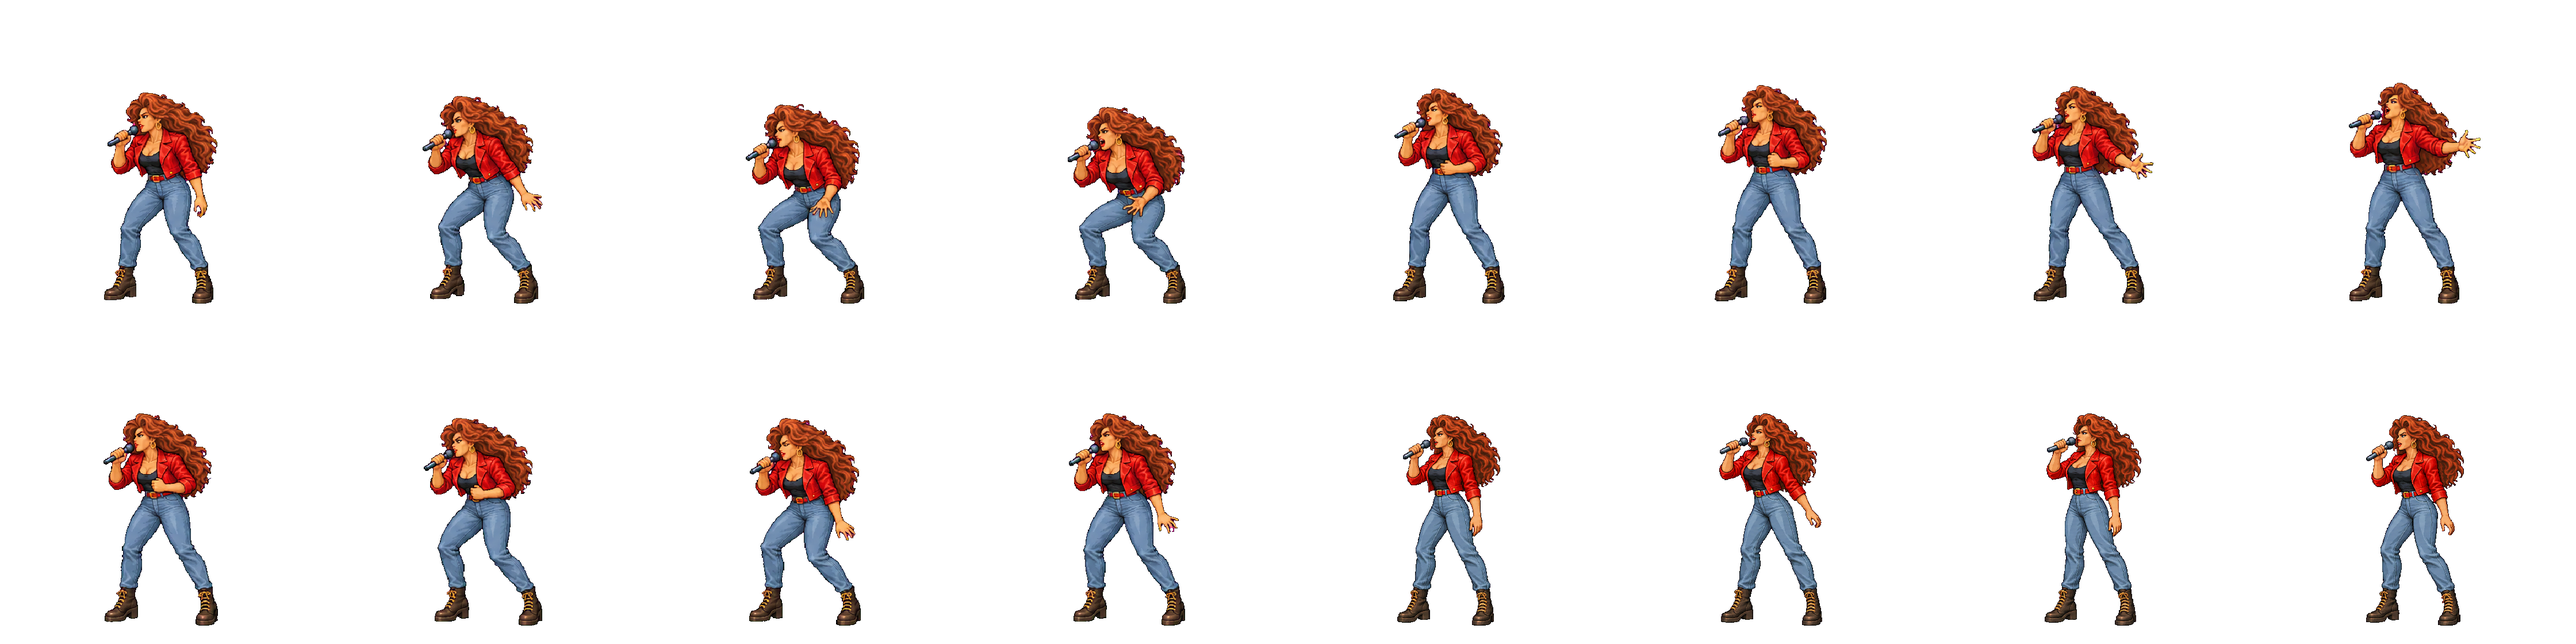
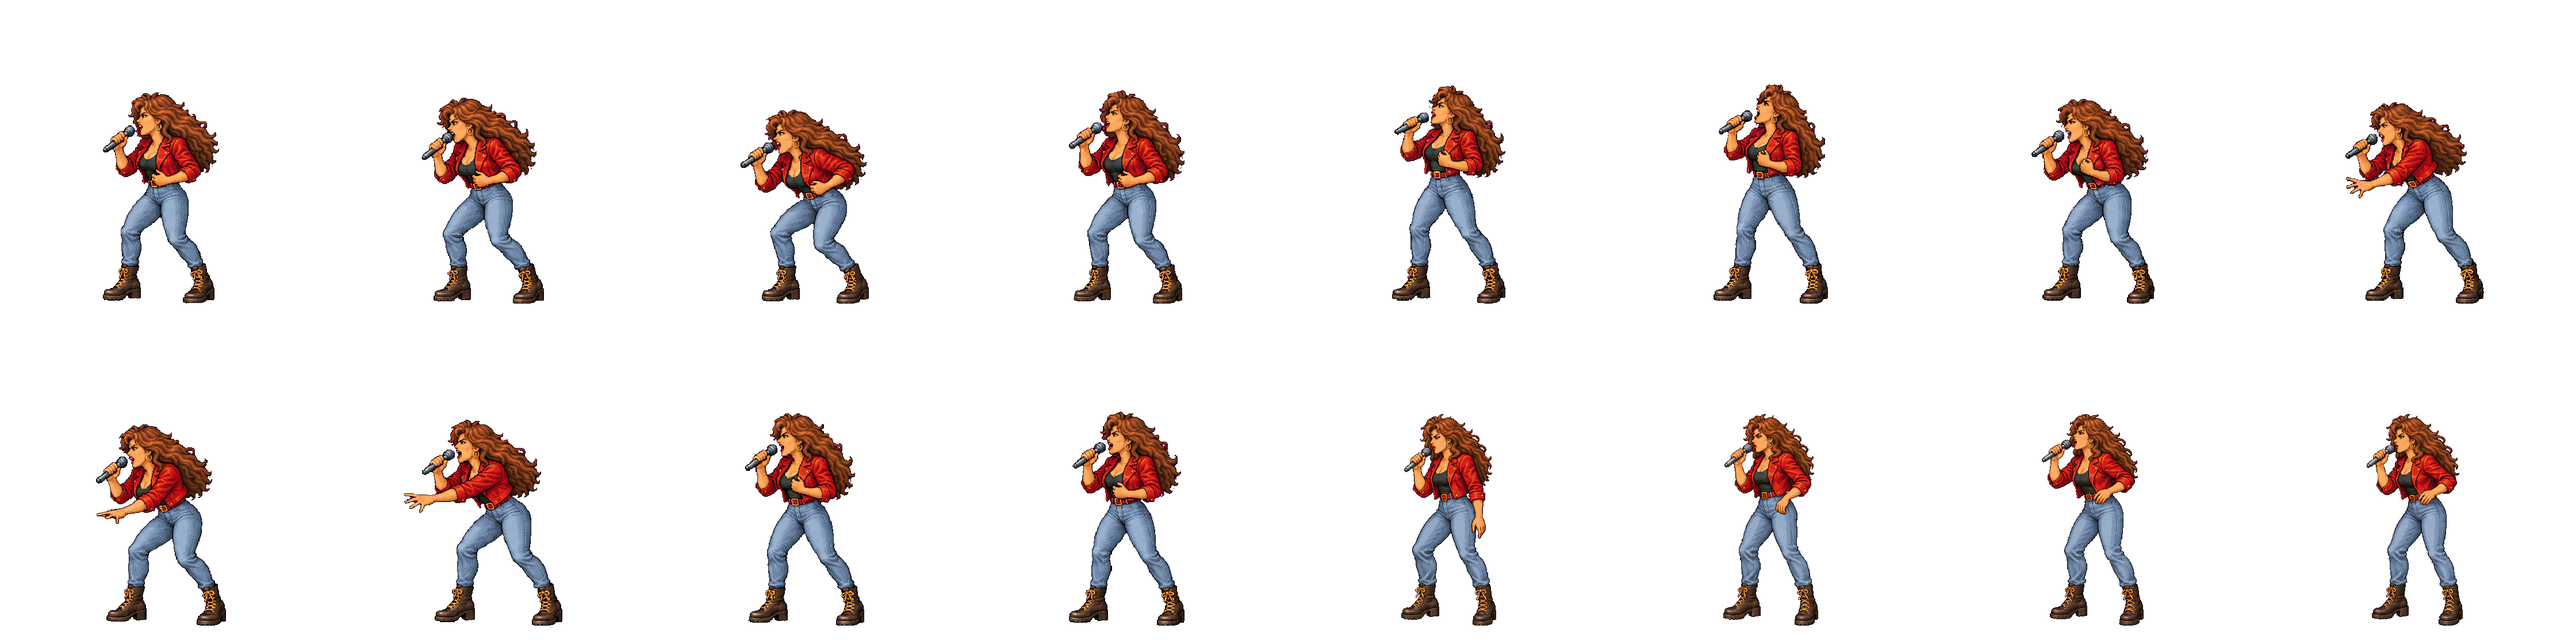
fix: eight figures a render, not twelve
The constant was set to 12 to cover a 24-frame set in two renders, and its own
comment admitted the resolution cost: figures land ~344px against ~476px at 8,
into a cell that holds ~390px, so 12 is upscaled where 8 is downsampled.

Belter's dance at 12 shows what that buys. Eleven of twenty-four figures came
back wearing the dancer's white socks above the character's boots, and the
second sheet put her in denim shorts instead of her jeans — while `costume_anchor`
had fired and named "chunky ankle boots in near-black dark brown leather" and
"high-waisted blue mom jeans" in the same prompt, and the key art attached
beside the pose grid showed both. Measured with the palette rule: belter has no
white, so white pixels in the lower 45% of a figure are unambiguous bleed.

The reference is a picture and the anchor is a sentence, and the picture wins.
That is now the third time today: the bible lost to the key art on the prop, the
director's note lost to it as well, and here the costume anchor loses to the
photograph. Arguing harder in prose is not the lever. At 344px the generator
stops reading each photograph as this performer's clothing and starts reading it
as the character's; eight makes each one big enough to read correctly.

Twenty-four frames now cost three renders instead of two. Belter's dance is
cleared so it redraws.

The previous roll of the same clip measured zero white at 12, so this is one
roll against one roll. It wants a second before the number is called fixed.

diff --git a/outputs/belter/index.html b/outputs/belter/index.html
@@ -14,4 +14,10 @@
 </style>
 <h1>Belter</h1><p>5' 7" &middot; A power-ballad singer in her forties with commanding performance energy.</p>
 <h2>Projection</h2><div class="views"><figure><img src="views/key.png" alt="key"><figcaption>key</figcaption></figure><figure><img src="views/front.png" alt="front"><figcaption>front</figcaption></figure><figure><img src="views/portrait-34.png" alt="portrait-34"><figcaption>portrait-34</figcaption></figure><figure><img src="views/portrait-80.png" alt="portrait-80"><figcaption>portrait-80</figcaption></figure></div>
+<h2>dance &middot; 24 frames at 12 fps</h2>
+<figure><img src="dance-proof.gif" alt="dance loop"><figcaption>proof, 12 fps</figcaption></figure>
+<div class="sheet"><img src="dance-sheet.png" alt="dance frame sheet"></div>
+<h2>sing &middot; 16 frames at 8 fps</h2>
+<figure><img src="sing-proof.gif" alt="sing loop"><figcaption>proof, 8 fps</figcaption></figure>
+<div class="sheet"><img src="sing-sheet.png" alt="sing frame sheet"></div>
 

diff --git a/cag/animation.py b/cag/animation.py
@@ -230,11 +230,20 @@ def tween(state: AnimationState, draw_fn: Callable[..., Path]) -> AnimationState
 #: which also makes every per-frame measurement meaningless, because figure `n`
 #: is no longer frame `n`. 8 and 12 both came back clean with no repeats.
 #:
-#: 12 costs some resolution: its figures land ~344px tall against ~476px at 8,
-#: and the cell holds a ~390px character, so 12 is upscaled into the cell where
-#: 8 is downsampled into it. Twelve is chosen anyway because it covers a
-#: 24-frame set in two renders.
-FRAME_SHEET_SIZE = 12
+#: 12 costs resolution: its figures land ~344px tall against ~476px at 8, and
+#: the cell holds a ~390px character, so 12 is upscaled into the cell where 8 is
+#: downsampled into it. Twelve was chosen anyway, to cover a 24-frame set in two
+#: renders rather than three.
+#:
+#: That trade was wrong. Belter's dance at 12 came back with the dancer's white
+#: socks above the character's boots in 11 of 24 figures, and denim shorts in
+#: place of her jeans on the second sheet — while the prompt named the boots and
+#: the jeans positively and the key art beside it showed both. The costume
+#: anchor is a sentence and the photograph is a picture, and at 344px the
+#: picture stops being read as this performer's clothing and starts being read
+#: as the character's. Eight does not argue with the photograph; it makes each
+#: one big enough to read correctly.
+FRAME_SHEET_SIZE = 8
 FIGURES_PER_ROW = 4
 
 #: Draws allowed per sheet before the set is given up on.
